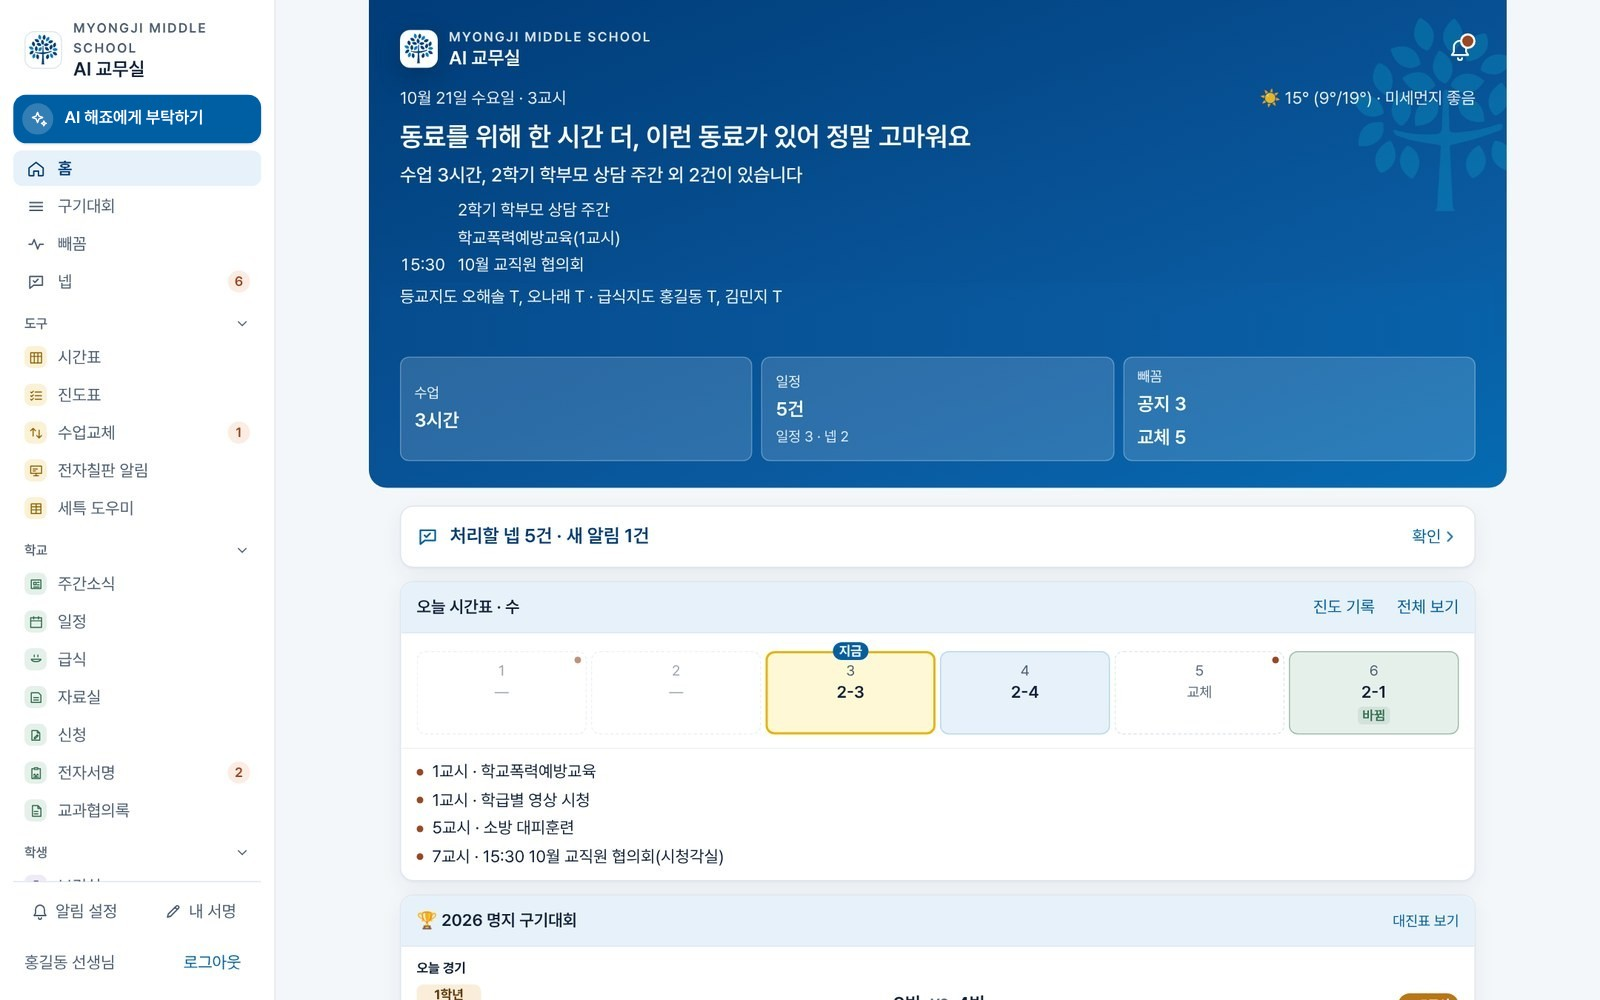
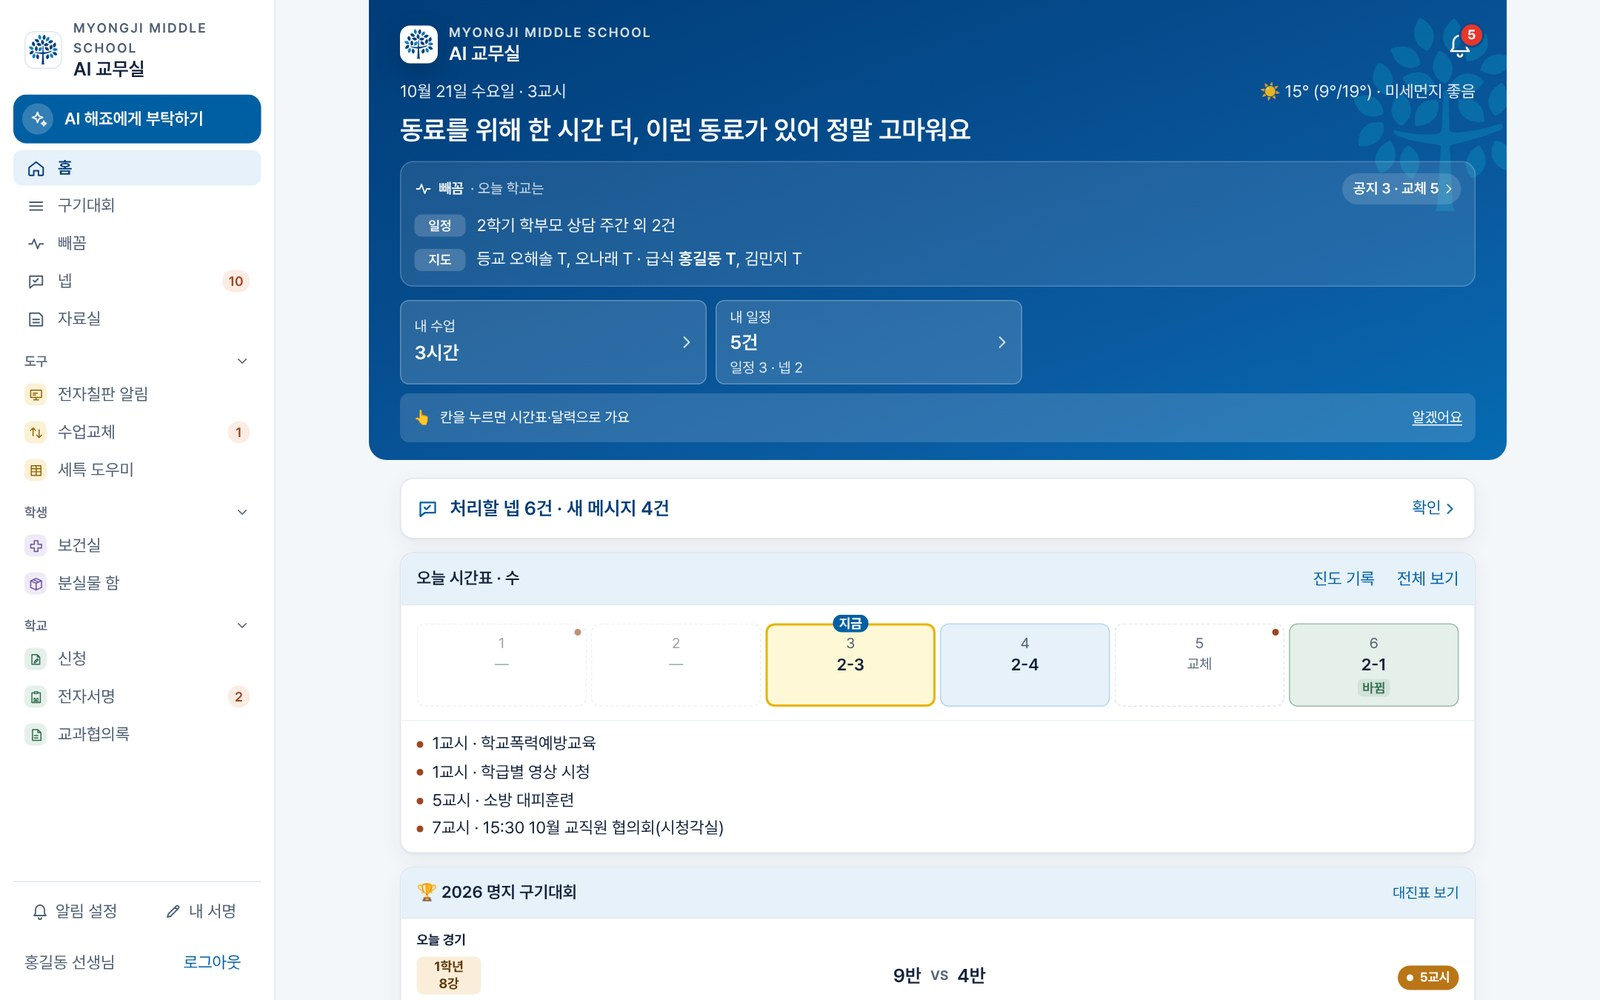
홈 화면 바뀐 것(10/28) 반영 — 빼꼼 판(경건회 줄 뺀 사본)·내 수업/내 일정 두 칸, 오늘 알림 카드 없앰
- 홈·홈 아래·구기대회 카드·PC 홈 그림을 지금 앱으로 다시 찍음(PC 홈은 숨긴 구기대회 메뉴 없이)
- 체험 미션 2의 홈 설명, 띠 위 동그라미는 잘 보이는 노란색

Claude-Session: https://claude.ai/code/session_01PnRkvZMXyWQ3PDuECRmpn5

diff --git a/img/rects.js b/img/rects.js
@@ -1,3 +1,3 @@
 /* 화면마다 동그라미 칠 자리(412×864 기준, 찍을 때 잰 값) — R(화면, 키) */
-window.SHOT_RECTS = {"ai-deep": {"answer": [16, 202, 323, 464], "feedback": [20, 672, 41, 36], "question": [73, 68, 323, 124]}, "ai-form": {"answer": [16, 124, 323, 308], "feedback": [20, 438, 41, 36], "links": [267, 372, 37, 19], "question": [147, 68, 249, 46]}, "ai-home": {"chip_first": [16, 202, 380, 46], "chips": [16, 201, 380, 236], "clear": [333, 12, 71, 44], "greet": [16, 100, 380, 30], "head": [16, 16, 74, 36], "hello": [16, 134, 380, 39], "input": [72, 658, 268, 48], "mic": [348, 658, 48, 48], "notice": [16, 718, 380, 33], "plus": [16, 658, 48, 48], "tab_ai": [166, 792, 81, 44]}, "ai-lesson-2": {"body": [31, 48, 350, 482], "button": [31, 560, 111, 40]}, "ai-letter": {"body": [31, 620, 350, 274], "card": [16, 286, 380, 671], "head": [17, 287, 378, 41], "question": [73, 68, 323, 72]}, "ai-library": {"answer": [16, 124, 323, 438], "feedback": [20, 568, 41, 36], "links": [65, 450, 37, 19], "question": [133, 68, 263, 46]}, "ai-lost": {"button": [31, 586, 84, 40], "card": [16, 312, 380, 327], "photo": [31, 366, 96, 96], "question": [73, 68, 323, 124]}, "ai-nep": {"button": [31, 726, 84, 40], "card": [16, 286, 380, 493], "edit": [127, 738, 89, 16], "people": [31, 589, 350, 84], "question": [73, 68, 323, 72]}, "ai-number": {"button": [31, 449, 96, 40], "card": [16, 260, 380, 242], "question": [81, 68, 315, 46]}, "ai-plus": {"attach": [22, 523, 284, 60], "close": [16, 658, 48, 48], "deep": [22, 584, 284, 60], "menu": [16, 517, 296, 133]}, "ai-progress": {"button": [31, 504, 108, 40], "card": [16, 286, 380, 271], "question": [73, 68, 323, 72]}, "ai-repair": {"button": [31, 576, 96, 40], "card": [16, 260, 380, 369], "head": [17, 261, 378, 41], "question": [73, 68, 323, 72]}, "ai-sign": {"button": [31, 705, 175, 40], "card": [16, 286, 380, 472], "people": [31, 544, 350, 151], "question": [73, 68, 323, 72]}, "ai-swap": {"calendar": [31, 364, 75, 14], "card": [16, 312, 380, 703], "question": [73, 68, 323, 72]}, "alerts": {}, "board-alert-confirm": {"cancel": [16, 804, 136, 44], "go": [160, 804, 236, 44], "sheet": [0, 0, 412, 864], "text": [16, 720, 380, 72], "where": [16, 668, 380, 40]}, "board-pick": {"all": [16, 535, 380, 44], "done": [16, 798, 380, 50], "grid": [16, 591, 380, 94], "legend": [16, 697, 380, 32], "off": [170, 641, 71, 44], "tabs": [16, 481, 380, 42]}, "board-send": {"body": [31, 233, 350, 110], "kinds": [31, 134, 350, 50], "mine": [272, 485, 109, 40], "options": [31, 358, 350, 78], "submit": [31, 602, 350, 50], "what": [31, 204, 350, 21], "where": [31, 456, 350, 115]}, "board-voice-rec": {"status": [43, 336, 326, 92], "stop": [287, 388, 82, 40]}, "calendar": {"today": [196, 394, 20, 20]}, "forms": {"trip": [17, 110, 378, 56]}, "found": {"head": [16, 24, 380, 71]}, "home": {"bell": [360, 22, 44, 44], "changed": [339, 669, 29, 16], "hero": [16, 106, 380, 66], "nep": [61, 503, 198, 26], "now": [160, 611, 33, 16], "tabAi": [166, 792, 81, 44], "tabMore": [327, 792, 81, 61], "tabNep": [85, 792, 81, 61], "tiles": [275, 354, 121, 94], "tt": [31, 569, 93, 21]}, "home-3": {"alerts": [31, 16, 55, 21], "meal": [31, 376, 26, 21], "upcoming": [31, 533, 81, 21]}, "home-sports": {"card": [16, 16, 380, 493], "link": [16, 16, 380, 493]}, "library": {"chips": [72, 214, 52, 39], "pinned": [16, 282, 380, 95], "search": [52, 169, 331, 23], "write": [310, 720, 86, 48]}, "library-post": {"download": [31, 211, 350, 44]}, "lost-found": {"add": [126, 679, 161, 54], "box": [16, 76, 380, 680], "item": [184, 368, 81, 81], "note": [16, 756, 380, 43], "returned": [286, 16, 110, 44], "student": [251, 767, 50, 13]}, "lost-found-2": {"add": [126, 643, 161, 54], "note": [16, 720, 380, 43], "student": [251, 731, 50, 13]}, "lost-found-add": {"photo": [16, 154, 380, 212], "place": [16, 558, 380, 73], "submit": [149, 863, 247, 44]}, "nep-board": {"meter": [16, 173, 380, 76], "pending": [16, 261, 380, 21], "remind": [16, 328, 380, 44]}, "nep-inbox": {"chip": [341, 457, 51, 21], "me": [0, 128, 412, 68], "recruit": [0, 264, 412, 68], "row": [0, 196, 412, 68], "tabs": [16, 76, 380, 48], "unread": [372, 230, 20, 20]}, "nep-org-picked": {"bar": [14, 692, 384, 61], "checks": [15, 165, 382, 225], "write": [283, 702, 105, 41]}, "nep-plus": {"ack": [16, 536, 380, 56], "files": [16, 472, 380, 56], "schedule": [16, 728, 380, 56], "sheet": [0, 0, 412, 864], "submit": [16, 664, 380, 56], "task": [16, 600, 380, 56], "urgent": [16, 792, 380, 56]}, "nep-room": {"bubble": [209, 643, 191, 63], "card": [12, 276, 341, 358], "done": [27, 576, 72, 44], "due": [27, 530, 311, 36], "head": [0, 0, 412, 61], "input": [64, 709, 260, 44], "plus": [12, 709, 44, 44], "send": [332, 709, 68, 44]}, "notifications-on": {"nurse": [333, 390, 48, 28], "test": [63, 177, 318, 44]}, "nurse": {"open": [31, 139, 350, 50]}, "pg-month": {"left": [33, 354, 346, 17], "nav": [16, 205, 380, 40], "row": [16, 396, 380, 118], "streak": [299, 270, 80, 21], "summary": [16, 257, 380, 127], "toggle": [16, 139, 380, 54]}, "pg-month-2": {"legend": [16, 614, 380, 40], "off": [77, 57, 24, 32], "row": [16, 267, 380, 118], "star": [53, 64, 16, 17], "today": [77, 91, 24, 32], "todo": [53, 342, 24, 32]}, "pg-month-pick": {"head": [31, 89, 121, 21], "slot": [17, 300, 378, 29]}, "pg-today": {"card": [16, 229, 380, 142], "date": [68, 139, 216, 44], "map": [206, 80, 187, 44], "save": [309, 703, 87, 44], "segment": [16, 77, 380, 50]}, "pg-week": {"hint": [16, 605, 380, 17], "list": [16, 139, 380, 54], "nav": [16, 205, 380, 40], "toggle": [16, 139, 380, 54]}, "record": {"privacy": [16, 42, 253, 16]}, "record-options": {"generate": [31, 383, 350, 50], "length": [31, 61, 350, 21], "model": [31, 301, 350, 48]}, "record-result": {"basis": [31, 532, 350, 90], "result": [31, 330, 350, 166]}, "sign-file": {"doc": [312, 103, 56, 21], "sign": [31, 181, 252, 48]}, "sign-meeting": {"hand": [295, 141, 71, 17], "roster": [17, 234, 378, 464], "sign": [31, 126, 252, 48]}, "signature": {"default": [267, 96, 112, 21], "hand": [16, 77, 380, 302], "stamp": [16, 391, 380, 302]}, "sports": {"bracket": [16, 77, 380, 262], "match": [29, 394, 354, 129], "rounds": [98, 352, 50, 32], "score": [116, 176, 17, 14]}, "sub-calc": {"calendar": [31, 466, 350, 21], "date": [31, 316, 169, 44], "go": [31, 501, 350, 44], "periods": [31, 374, 350, 113], "reason": [212, 316, 169, 44], "tabs": [16, 77, 380, 50], "teacher": [31, 229, 350, 44]}, "sub-dates": {"byHand": [278, 520, 71, 17], "dates": [43, 117, 255, 68], "request": [31, 508, 235, 40], "tools": [31, 460, 350, 36]}, "sub-inbox": {"pending": [16, 316, 380, 21], "proxy": [31, 651, 220, 40], "register": [16, 139, 380, 44], "rooms": [16, 243, 380, 65], "tab": [268, 80, 125, 44]}, "sub-result": {"calendar": [31, 120, 350, 42], "date": [43, 317, 279, 40], "firstStep": [31, 264, 350, 23], "plan1": [31, 207, 350, 49]}, "today": {"board": [31, 90, 52, 21], "days": [178, 271, 42, 23], "mynep": [31, 926, 42, 21]}, "today-2": {"changes": [17, 302, 378, 46], "events": [31, 72, 69, 21]}, "tt-class": {"picker": [16, 135, 380, 44], "tabs": [16, 77, 380, 50]}, "tt-free": {"name": [31, 395, 60, 40], "rooms": [16, 212, 380, 123], "teachers": [16, 347, 380, 343]}, "tt-my": {"away": [191, 516, 61, 87], "band": [191, 226, 61, 87], "changed": [191, 606, 61, 68], "pending": [322, 317, 61, 68], "picker": [16, 135, 380, 44], "tabs": [16, 77, 380, 50], "today": [191, 389, 61, 68]}, "tt-pop": {"band": [191, 226, 61, 87], "pop": [29, 317, 354, 115]}};
+window.SHOT_RECTS = {"ai-deep": {"answer": [16, 202, 323, 464], "feedback": [20, 672, 41, 36], "question": [73, 68, 323, 124]}, "ai-form": {"answer": [16, 124, 323, 308], "feedback": [20, 438, 41, 36], "links": [267, 372, 37, 19], "question": [147, 68, 249, 46]}, "ai-home": {"chip_first": [16, 202, 380, 46], "chips": [16, 201, 380, 236], "clear": [333, 12, 71, 44], "greet": [16, 100, 380, 30], "head": [16, 16, 74, 36], "hello": [16, 134, 380, 39], "input": [72, 658, 268, 48], "mic": [348, 658, 48, 48], "notice": [16, 718, 380, 33], "plus": [16, 658, 48, 48], "tab_ai": [166, 792, 81, 44]}, "ai-lesson-2": {"body": [31, 48, 350, 482], "button": [31, 560, 111, 40]}, "ai-letter": {"body": [31, 620, 350, 274], "card": [16, 286, 380, 671], "head": [17, 287, 378, 41], "question": [73, 68, 323, 72]}, "ai-library": {"answer": [16, 124, 323, 438], "feedback": [20, 568, 41, 36], "links": [65, 450, 37, 19], "question": [133, 68, 263, 46]}, "ai-lost": {"button": [31, 586, 84, 40], "card": [16, 312, 380, 327], "photo": [31, 366, 96, 96], "question": [73, 68, 323, 124]}, "ai-nep": {"button": [31, 726, 84, 40], "card": [16, 286, 380, 493], "edit": [127, 738, 89, 16], "people": [31, 589, 350, 84], "question": [73, 68, 323, 72]}, "ai-number": {"button": [31, 449, 96, 40], "card": [16, 260, 380, 242], "question": [81, 68, 315, 46]}, "ai-plus": {"attach": [22, 523, 284, 60], "close": [16, 658, 48, 48], "deep": [22, 584, 284, 60], "menu": [16, 517, 296, 133]}, "ai-progress": {"button": [31, 504, 108, 40], "card": [16, 286, 380, 271], "question": [73, 68, 323, 72]}, "ai-repair": {"button": [31, 576, 96, 40], "card": [16, 260, 380, 369], "head": [17, 261, 378, 41], "question": [73, 68, 323, 72]}, "ai-sign": {"button": [31, 705, 175, 40], "card": [16, 286, 380, 472], "people": [31, 544, 350, 151], "question": [73, 68, 323, 72]}, "ai-swap": {"calendar": [31, 364, 75, 14], "card": [16, 312, 380, 703], "question": [73, 68, 323, 72]}, "alerts": {}, "board-alert-confirm": {"cancel": [16, 804, 136, 44], "go": [160, 804, 236, 44], "sheet": [0, 0, 412, 864], "text": [16, 720, 380, 72], "where": [16, 668, 380, 40]}, "board-pick": {"all": [16, 535, 380, 44], "done": [16, 798, 380, 50], "grid": [16, 591, 380, 94], "legend": [16, 697, 380, 32], "off": [170, 641, 71, 44], "tabs": [16, 481, 380, 42]}, "board-send": {"body": [31, 233, 350, 110], "kinds": [31, 134, 350, 50], "mine": [272, 485, 109, 40], "options": [31, 358, 350, 78], "submit": [31, 602, 350, 50], "what": [31, 204, 350, 21], "where": [31, 456, 350, 115]}, "board-voice-rec": {"status": [43, 336, 326, 92], "stop": [287, 388, 82, 40]}, "calendar": {"today": [196, 394, 20, 20]}, "forms": {"trip": [17, 110, 378, 56]}, "found": {"head": [16, 24, 380, 71]}, "home": {"bell": [360, 16, 44, 44], "changed": [326, 576, 55, 71], "hero": [16, 96, 380, 61], "hint": [16, 372, 380, 44], "nep": [16, 448, 380, 54], "now": [149, 576, 55, 71], "peek": [16, 168, 380, 112], "pill": [282, 179, 101, 28], "tabAi": [166, 792, 81, 44], "tabMore": [327, 792, 81, 61], "tabNep": [85, 792, 81, 61], "tileLesson": [16, 292, 186, 72], "tileSched": [210, 292, 186, 72], "tiles": [16, 292, 380, 72], "tt": [321, 515, 68, 44]}, "home-3": {"cal": [349, 430, 40, 44], "meal": [31, 291, 24, 20], "upcoming": [31, 442, 76, 20], "weekly": [280, 430, 64, 44]}, "home-sports": {"card": [16, 16, 380, 472], "link": [16, 16, 380, 472]}, "library": {"chips": [72, 214, 52, 39], "pinned": [16, 282, 380, 95], "search": [52, 169, 331, 23], "write": [310, 720, 86, 48]}, "library-post": {"download": [31, 211, 350, 44]}, "lost-found": {"add": [126, 679, 161, 54], "box": [16, 76, 380, 680], "item": [184, 368, 81, 81], "note": [16, 756, 380, 43], "returned": [286, 16, 110, 44], "student": [251, 767, 50, 13]}, "lost-found-2": {"add": [126, 643, 161, 54], "note": [16, 720, 380, 43], "student": [251, 731, 50, 13]}, "lost-found-add": {"photo": [16, 154, 380, 212], "place": [16, 558, 380, 73], "submit": [149, 863, 247, 44]}, "nep-board": {"meter": [16, 173, 380, 76], "pending": [16, 261, 380, 21], "remind": [16, 328, 380, 44]}, "nep-inbox": {"chip": [341, 457, 51, 21], "me": [0, 128, 412, 68], "recruit": [0, 264, 412, 68], "row": [0, 196, 412, 68], "tabs": [16, 76, 380, 48], "unread": [372, 230, 20, 20]}, "nep-org-picked": {"bar": [14, 692, 384, 61], "checks": [15, 165, 382, 225], "write": [283, 702, 105, 41]}, "nep-plus": {"ack": [16, 536, 380, 56], "files": [16, 472, 380, 56], "schedule": [16, 728, 380, 56], "sheet": [0, 0, 412, 864], "submit": [16, 664, 380, 56], "task": [16, 600, 380, 56], "urgent": [16, 792, 380, 56]}, "nep-room": {"bubble": [209, 643, 191, 63], "card": [12, 276, 341, 358], "done": [27, 576, 72, 44], "due": [27, 530, 311, 36], "head": [0, 0, 412, 61], "input": [64, 709, 260, 44], "plus": [12, 709, 44, 44], "send": [332, 709, 68, 44]}, "notifications-on": {"nurse": [333, 390, 48, 28], "test": [63, 177, 318, 44]}, "nurse": {"open": [31, 139, 350, 50]}, "pg-month": {"left": [33, 354, 346, 17], "nav": [16, 205, 380, 40], "row": [16, 396, 380, 118], "streak": [299, 270, 80, 21], "summary": [16, 257, 380, 127], "toggle": [16, 139, 380, 54]}, "pg-month-2": {"legend": [16, 614, 380, 40], "off": [77, 57, 24, 32], "row": [16, 267, 380, 118], "star": [53, 64, 16, 17], "today": [77, 91, 24, 32], "todo": [53, 342, 24, 32]}, "pg-month-pick": {"head": [31, 89, 121, 21], "slot": [17, 300, 378, 29]}, "pg-today": {"card": [16, 229, 380, 142], "date": [68, 139, 216, 44], "map": [206, 80, 187, 44], "save": [309, 703, 87, 44], "segment": [16, 77, 380, 50]}, "pg-week": {"hint": [16, 605, 380, 17], "list": [16, 139, 380, 54], "nav": [16, 205, 380, 40], "toggle": [16, 139, 380, 54]}, "record": {"privacy": [16, 42, 253, 16]}, "record-options": {"generate": [31, 383, 350, 50], "length": [31, 61, 350, 21], "model": [31, 301, 350, 48]}, "record-result": {"basis": [31, 532, 350, 90], "result": [31, 330, 350, 166]}, "sign-file": {"doc": [312, 103, 56, 21], "sign": [31, 181, 252, 48]}, "sign-meeting": {"hand": [295, 141, 71, 17], "roster": [17, 234, 378, 464], "sign": [31, 126, 252, 48]}, "signature": {"default": [267, 96, 112, 21], "hand": [16, 77, 380, 302], "stamp": [16, 391, 380, 302]}, "sports": {"bracket": [16, 77, 380, 262], "match": [29, 394, 354, 129], "rounds": [98, 352, 50, 32], "score": [116, 176, 17, 14]}, "sub-calc": {"calendar": [31, 466, 350, 21], "date": [31, 316, 169, 44], "go": [31, 501, 350, 44], "periods": [31, 374, 350, 113], "reason": [212, 316, 169, 44], "tabs": [16, 77, 380, 50], "teacher": [31, 229, 350, 44]}, "sub-dates": {"byHand": [278, 520, 71, 17], "dates": [43, 117, 255, 68], "request": [31, 508, 235, 40], "tools": [31, 460, 350, 36]}, "sub-inbox": {"pending": [16, 316, 380, 21], "proxy": [31, 651, 220, 40], "register": [16, 139, 380, 44], "rooms": [16, 243, 380, 65], "tab": [268, 80, 125, 44]}, "sub-result": {"calendar": [31, 120, 350, 42], "date": [43, 317, 279, 40], "firstStep": [31, 264, 350, 23], "plan1": [31, 207, 350, 49]}, "today": {"board": [31, 90, 52, 21], "days": [178, 271, 42, 23], "mynep": [31, 926, 42, 21]}, "today-2": {"changes": [17, 302, 378, 46], "events": [31, 72, 69, 21]}, "tt-class": {"picker": [16, 135, 380, 44], "tabs": [16, 77, 380, 50]}, "tt-free": {"name": [31, 395, 60, 40], "rooms": [16, 212, 380, 123], "teachers": [16, 347, 380, 343]}, "tt-my": {"away": [191, 516, 61, 87], "band": [191, 226, 61, 87], "changed": [191, 606, 61, 68], "pending": [322, 317, 61, 68], "picker": [16, 135, 380, 44], "tabs": [16, 77, 380, 50], "today": [191, 389, 61, 68]}, "tt-pop": {"band": [191, 226, 61, 87], "pop": [29, 317, 354, 115]}};
 window.R = function (s, k) { var a = (window.SHOT_RECTS[s] || {})[k]; if (!a) { if (window.console) console.warn('rect 없음', s, k); return null; } return a; };

diff --git a/intro-scenes.js b/intro-scenes.js
@@ -581,15 +581,15 @@
     id: "s-home", part: 2, label: "홈", min: 1.5,
     title: "홈: 오늘 <em>나에게</em> 필요한 것만",
     steps: [
-      { t: '큰 글씨는 <b>선생님마다 다른 한마디</b> — 교체로 수업을 맡아 준 날엔 “고마워요”', s: 0, r: R("home", "hero") },
-      { t: '<span class="q">수업 · 일정 · 빼꼼</span> 세 칸과 오른쪽 위 <b>알림 종</b>', s: 0, r: R("home", "tiles"), z: 1.9 },
-      { t: '<b>처리할 넵</b>이 맨 위에 가장 크게', s: 0, r: R("home", "nep"), z: 1.8 },
+      { t: '큰 글씨는 <b>선생님마다 다른 한마디</b> — 교체로 수업을 맡아 준 날엔 “고마워요”', s: 0, r: R("home", "hero"), newf: true },
+      { t: '<span class="q">「빼꼼 · 오늘 학교는」</span> 판: 오늘 일정·지도 당번과 공지·교체 수 — 누르면 빼꼼', s: 0, r: R("home", "peek"), newf: true, z: 1.6 },
+      { t: '두 칸 <span class="q">내 수업 · 내 일정</span>(누르면 시간표·달력)과 오른쪽 위 <b>알림 종</b>', s: 0, r: R("home", "tiles"), newf: true, z: 1.9 },
+      { t: '<b>처리할 넵</b>이 띠 바로 아래에', s: 0, r: R("home", "nep"), z: 1.8 },
       { t: '오늘 시간표: 지금 교시 <span class="q">「지금」</span>, 교체로 들어온 수업 <span class="q">「바뀜」</span>', s: 0, r: R("home", "now"), z: 1.9 },
-      { t: '<span class="q">「오늘 알림」</span>: 공지·오늘 바뀐 수업·넵 일정·특별 일정', s: 1, r: R("home-3", "alerts") },
       { t: '급식과 <span class="q">「다가오는 일정」</span>(오늘부터 7일)', s: 1, r: R("home-3", "upcoming") }
     ],
     screens: ["home", "home-3"],
-    notes: "앱을 열면 보이는 홈입니다. 위쪽 큰 글씨는 <b>선생님마다 다른 한마디</b>입니다. 오늘 동료 수업을 교체로 맡아 준 선생님에게는 “고마워요”, 급식지도 당번에게는 “점심 챙기세요”처럼, 그 선생님의 오늘에 맞춰 AI와 규칙이 함께 고릅니다(퇴근했다고 단정하거나 다그치는 말은 쓰지 않습니다). 그 아래 날씨, 오늘 일정, 등교지도·급식지도 당번, 그리고 처리할 넵, 오늘 시간표, 오늘 알림, 급식, 다가오는 일정 순서입니다."
+    notes: "앱을 열면 보이는 홈입니다. 위쪽 큰 글씨는 <b>선생님마다 다른 한마디</b>입니다. 오늘 동료 수업을 교체로 맡아 준 선생님에게는 “고마워요”, 급식지도 당번에게는 “점심 챙기세요”처럼, 그 선생님의 오늘에 맞춰 AI와 규칙이 함께 고릅니다(퇴근했다고 단정하거나 다그치는 말은 쓰지 않습니다). 그 아래 <b>빼꼼 판</b>에 오늘 일정과 등교·급식지도 당번, 공지·바뀐 수업 수가 모이고(누르면 빼꼼), 내 수업·내 일정 두 칸, 처리할 넵, 오늘 시간표, 급식, 다가오는 일정 순서입니다. <b>저녁 7시부터는</b> 홈 전체가 내일 것으로 바뀌어 퇴근길에 내일을 봅니다."
   });
 
   show({

diff --git a/missions.js b/missions.js
@@ -13,7 +13,7 @@ window.MISSIONS = [
   {
     n: 2, part: "매일 여는 화면", title: "홈과 빼꼼 둘러보기", min: 2, ai: 0, scenes: ["s-home", "s-today"],
     steps: [
-      '<span class="k">홈</span>: 오늘 일정·당번, <span class="q">오늘 시간표</span>, <span class="q">오늘 알림</span>, 급식, 다가오는 일정',
+      '<span class="k">홈</span>: 위쪽 <span class="q">빼꼼</span>과 수업·일정 칸, <span class="q">오늘 시간표</span>, 급식, 다가오는 일정',
       '홈 위쪽 <span class="k">빼꼼</span>: 이번 주 날짜를 눌러 공지·특별 일정·바뀐 수업'
     ],
     see: "빼꼼의 바뀐 수업은 선생님 이름 없이 과목만 보입니다 — 사유는 그 선생님 본인에게만."
